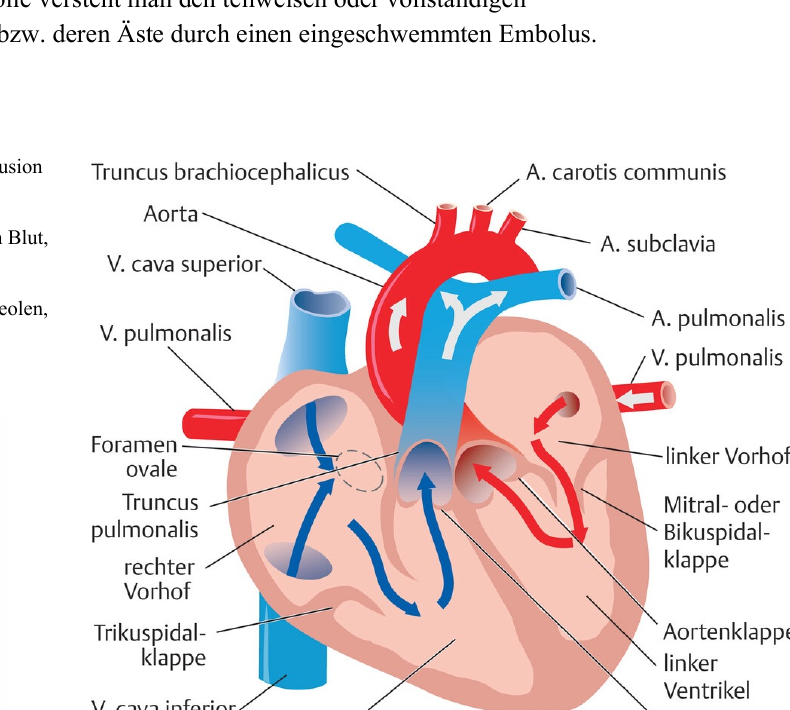
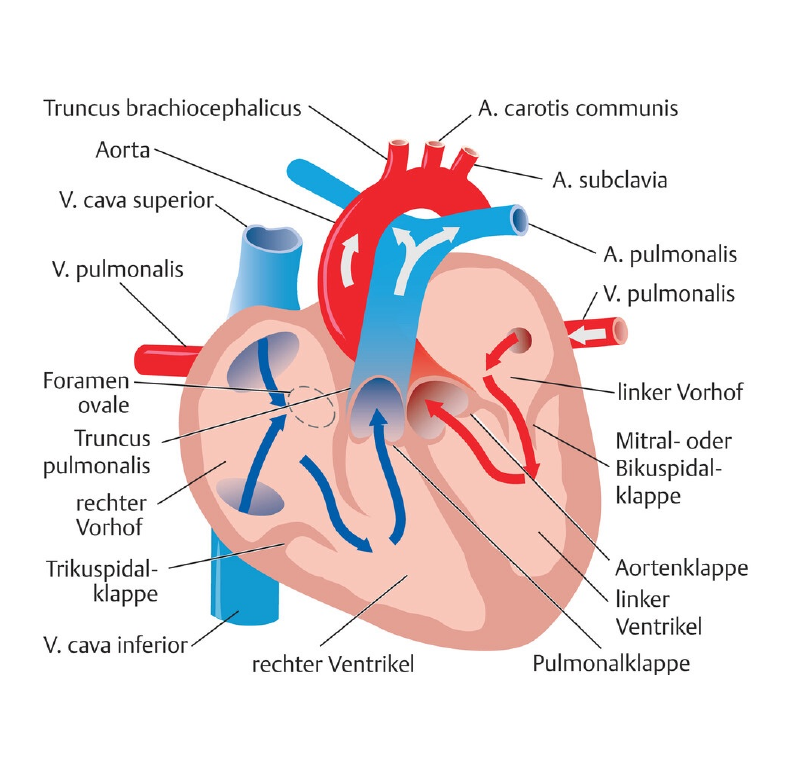
Improve lesson image viewing

diff --git a/app/globals.css b/app/globals.css
@@ -155,20 +155,26 @@ footer { margin-top:auto; display:flex; justify-content:space-between; gap:30px;
 .stroke-types h3 { font-size:15px; }
 .stroke-types p,.reading-columns p,.pathway p,.knowledge-note p { margin:0; color:#65757b; font-size:12px; line-height:1.7; }
 .source-figure { margin:34px 0; overflow:hidden; border:1px solid #edf0ef; border-radius:16px; background:#fbfbf9; }
-.source-figure img { display:block; width:100%; max-height:400px; object-fit:contain; padding:18px; background:#fff; }
+.source-figure img { display:block; width:100%; height:auto; object-fit:contain; background:#fff; }
 .source-figure figcaption { display:flex; justify-content:space-between; gap:15px; padding:12px 15px; color:#52656d; border-top:1px solid #edf0ef; font-size:10px; font-weight:750; }
 .source-figure figcaption span { color:#99a4a8; font-size:8px; font-weight:650; letter-spacing:.08em; text-transform:uppercase; }
-.source-figure.wide img { max-height:510px; }
 .collapsible-figure { margin:30px 0; overflow:hidden; border:1px solid #e3e8e7; border-radius:16px; background:#fff; }
 .collapsible-figure > summary { display:flex; align-items:center; justify-content:space-between; gap:20px; padding:14px 17px; color:#26434e; background:#f5f7f6; cursor:pointer; list-style:none; font-size:11px; font-weight:850; }
 .collapsible-figure > summary::-webkit-details-marker { display:none; }.collapsible-figure > summary::after { content:"−"; display:grid; place-items:center; width:26px; height:26px; border-radius:50%; background:#e7eceb; color:#52676f; font-size:16px; }.collapsible-figure:not([open]) > summary::after { content:"+"; }
 .collapsible-figure > summary span { flex:1; }.collapsible-figure > summary small { color:#89969b; font-size:8px; font-weight:750; letter-spacing:.08em; text-transform:uppercase; }
-.collapsible-figure .source-figure,.collapsible-figure .vfa-page { margin:0; border:0; border-top:1px solid #e5e9e8; border-radius:0; }.collapsible-figure.wide .source-figure img { max-height:560px; }
+.collapsible-figure .source-figure,.collapsible-figure .vfa-page { margin:0; border:0; border-top:1px solid #e5e9e8; border-radius:0; }
 .reading-columns { display:grid; grid-template-columns:1fr 1fr; gap:26px 34px; margin:35px 0; }
 .reading-columns > div { padding-top:14px; border-top:2px solid #dfe7e8; }
 .figure-grid { display:grid; grid-template-columns:1fr 1fr; gap:14px; }
 .figure-grid .source-figure { margin:12px 0; }
-.figure-grid .source-figure img { height:280px; }
+.figure-grid .source-figure img { height:auto; }
+.image-open-button { position:relative; display:block; width:100%; padding:18px; overflow:hidden; border:0; background:#fff; cursor:zoom-in; }
+.image-open-button > span { position:absolute; right:30px; bottom:30px; padding:8px 11px; border-radius:99px; background:#102f3ce8; color:#fff; box-shadow:0 7px 20px #102f3c35; font-size:9px; font-weight:850; letter-spacing:.04em; }
+.image-open-button:focus-visible { outline:3px solid #df704c; outline-offset:-3px; }
+.image-lightbox { position:fixed; inset:0; z-index:1000; display:grid; place-items:center; padding:58px 24px 24px; background:#08171edb; backdrop-filter:blur(12px); cursor:zoom-out; }
+.image-lightbox-stage { display:grid; place-items:center; max-width:100%; max-height:100%; overflow:auto; border-radius:12px; background:#fff; box-shadow:0 24px 80px #0009; cursor:default; }
+.image-lightbox-stage img { display:block; width:auto; height:auto; max-width:calc(100vw - 48px); max-height:calc(100vh - 88px); object-fit:contain; }
+.image-lightbox-close { position:fixed; top:16px; right:18px; z-index:1; padding:9px 13px; border:1px solid #ffffff50; border-radius:99px; background:#fff; color:#173845; box-shadow:0 8px 24px #0004; cursor:pointer; font-size:10px; font-weight:850; }
 .pathway { position:relative; margin:0 0 16px; padding:23px 23px 23px 115px; border-radius:14px; background:#f3f7f8; }
 .pathway > span { position:absolute; top:23px; left:20px; padding:7px 9px; border-radius:7px; background:#dcebf0; color:#23617a; font-size:9px; font-weight:850; letter-spacing:.08em; text-transform:uppercase; }
 .pathway.bleeding { background:#fff4ef; }.pathway.bleeding > span { background:#ffe0d3; color:#a44c2f; }
@@ -350,7 +356,7 @@ footer { margin-top:auto; display:flex; justify-content:space-between; gap:30px;
   .lesson-article { padding:0 35px 42px; }.lesson-prose { padding-left:0; }.lesson-intro { padding-top:42px; }.chapter-heading { margin-bottom:22px; }.lesson-section { padding-top:48px; }.lesson-article .ai-question-panel { margin:0; }.reader-hero-ready::after { display:none; }
 }
 @media (max-width:530px) { .login-brand { min-height:39vh; }.login-copy h1 { font-size:39px; }.login-copy > p { margin-bottom:0; }.login-card h2 { font-size:29px; }.topic-grid { grid-template-columns:1fr; }.section-heading h1 { font-size:34px; }.topic-card { min-height:270px; }.welcome h1 { font-size:36px; }.welcome { min-height:370px; }.hero-actions { max-width:none; margin-right:60px; }.topic-modal { padding:28px 22px; }.modal-backdrop { padding:12px; }.quiz-header h1 { font-size:29px; }.answer-list button { min-height:66px; }.result-card h1 { font-size:31px; }.progress-overview { padding:30px 22px; }.checklist { padding:20px 16px; }.source-badge { display:none; }.topic-search small { display:none; }.reader-hero { padding:30px 22px; display:block; }.reader-status { display:inline-block; margin-top:22px; }.reader-sections > section { padding:17px; }.mastery-grid { grid-template-columns:1fr; }.chapter-progress-card { padding:22px 18px; }.chapter-progress-main { grid-template-columns:1fr; }.chapter-score { text-align:left; }.chapter-result-grid { grid-template-columns:1fr; }.chapter-result-grid > button { grid-column:auto; }.topic-name-grid button { min-height:82px; }.topic-name-grid button small { line-height:1.4; }
-  .topic-reader { width:calc(100% - 22px); }.lesson-article { padding:0 19px 34px; }.lesson-intro .lead { font-size:22px; }.chapter-heading { grid-template-columns:36px 1fr; gap:12px; }.chapter-heading > span { width:36px; height:36px; }.chapter-heading h2 { font-size:26px; }.stroke-types,.reading-columns,.figure-grid,.symptom-grid,.differential-grid,.samplers-grid,.ecg-pattern,.resus-readiness { grid-template-columns:1fr; }.stroke-types article { min-height:0; }.source-figure img { padding:9px; }.figure-grid .source-figure img { height:auto; max-height:330px; }.source-figure figcaption { display:block; }.source-figure figcaption span { display:block; margin-top:4px; }.pathway { padding:65px 18px 20px; }.pathway > span { top:18px; left:18px; }.red-flags,.diagnostic-boundary { grid-template-columns:1fr; padding:22px; }.diagnostic-boundary > span { min-height:42px; }.editorial-list li { grid-template-columns:1fr; gap:5px; }.lesson-article .ai-question-panel { padding:22px; }.vfa-page { margin-left:0; margin-right:0; }.reading-flow { padding:22px 17px 35px; }.lysis-explainer { grid-template-columns:1fr; }.collapsible-figure > summary small { display:none; }.review-action-grid,.training-track-tabs { grid-template-columns:1fr; }.written-training-empty,.progress-empty { grid-template-columns:1fr; }
+  .topic-reader { width:calc(100% - 22px); }.lesson-article { padding:0 19px 34px; }.lesson-intro .lead { font-size:22px; }.chapter-heading { grid-template-columns:36px 1fr; gap:12px; }.chapter-heading > span { width:36px; height:36px; }.chapter-heading h2 { font-size:26px; }.stroke-types,.reading-columns,.figure-grid,.symptom-grid,.differential-grid,.samplers-grid,.ecg-pattern,.resus-readiness { grid-template-columns:1fr; }.stroke-types article { min-height:0; }.figure-grid .source-figure img { height:auto; }.source-figure figcaption { display:block; }.source-figure figcaption span { display:block; margin-top:4px; }.image-open-button { padding:8px; }.image-open-button > span { right:17px; bottom:17px; }.image-lightbox { padding:54px 10px 10px; }.image-lightbox-stage img { max-width:calc(100vw - 20px); max-height:calc(100vh - 68px); }.pathway { padding:65px 18px 20px; }.pathway > span { top:18px; left:18px; }.red-flags,.diagnostic-boundary { grid-template-columns:1fr; padding:22px; }.diagnostic-boundary > span { min-height:42px; }.editorial-list li { grid-template-columns:1fr; gap:5px; }.lesson-article .ai-question-panel { padding:22px; }.vfa-page { margin-left:0; margin-right:0; }.reading-flow { padding:22px 17px 35px; }.lysis-explainer { grid-template-columns:1fr; }.collapsible-figure > summary small { display:none; }.review-action-grid,.training-track-tabs { grid-template-columns:1fr; }.written-training-empty,.progress-empty { grid-template-columns:1fr; }
   .chapter-quiz { margin:0; padding:23px 19px; }.single-choice-actions button { grid-template-columns:34px 1fr; padding:10px 12px; }.single-choice-actions button > span { width:32px; height:32px; }.chapter-quiz-head > div:first-child { align-items:flex-start; flex-direction:column; gap:5px; }
   .mc-training-page .ai-question-panel.standalone { min-height:0; padding:25px 21px; }.mc-training-page .chapter-quiz.standalone { min-height:0; }
   .flashcard-deck { margin-left:0; }.flashcard-grid { grid-template-columns:1fr; }.flashcard-deck > div:first-child { align-items:flex-start; flex-direction:column; }.vein-pair { grid-template-columns:1fr; }.vein-pair > i { transform:rotate(90deg); justify-self:center; }.chapter-completion { align-items:stretch; flex-direction:column; }.chapter-completion > button { width:100%; }

diff --git a/app/page.tsx b/app/page.tsx
@@ -175,12 +175,36 @@ function ChapterHeading({ number, title, kicker }: { number: string; title: stri
   return <header className="chapter-heading"><span>{number}</span><div><small>{kicker}</small><h2>{title}</h2></div></header>;
 }
 
+function ExpandableImage({ src, alt }: { src: string; alt: string }) {
+  const [fullscreen, setFullscreen] = useState(false);
+
+  useEffect(() => {
+    if (!fullscreen) return;
+    const closeOnEscape = (event: KeyboardEvent) => { if (event.key === "Escape") setFullscreen(false); };
+    window.addEventListener("keydown", closeOnEscape);
+    return () => window.removeEventListener("keydown", closeOnEscape);
+  }, [fullscreen]);
+
+  return <>
+    <button className="image-open-button" type="button" onClick={() => setFullscreen(true)} aria-label={`${alt} im Vollbild öffnen`}>
+      <img src={src} alt={alt} />
+      <span>⤢ Vollbild</span>
+    </button>
+    {fullscreen && <div className="image-lightbox" role="dialog" aria-modal="true" aria-label={`Vollbild: ${alt}`} onClick={() => setFullscreen(false)}>
+      <button className="image-lightbox-close" type="button" onClick={() => setFullscreen(false)}>× Schließen</button>
+      <div className="image-lightbox-stage" onClick={(event) => event.stopPropagation()}>
+        <img src={src} alt={alt} />
+      </div>
+    </div>}
+  </>;
+}
+
 function SourceFigure({ src, alt, caption, wide = false }: { src: string; alt: string; caption: string; wide?: boolean }) {
-  return <details className={`collapsible-figure ${wide ? "wide" : ""}`} open><summary><span>{caption}</span><small>Abbildung ein-/ausklappen</small></summary><figure className="source-figure"><img src={src} alt={alt} /><figcaption>{caption}<span>Abbildung aus deiner Vorlage</span></figcaption></figure></details>;
+  return <details className={`collapsible-figure ${wide ? "wide" : ""}`} open><summary><span>{caption}</span><small>Abbildung ein-/ausklappen</small></summary><figure className="source-figure"><ExpandableImage src={src} alt={alt} /><figcaption>{caption}<span>Abbildung aus deiner Vorlage · antippen für Vollbild</span></figcaption></figure></details>;
 }
 
 function VfaFigure({ src, alt, caption }: { src: string; alt: string; caption: string }) {
-  return <details className="collapsible-figure vfa-collapsible" open><summary><span>{caption}</span><small>VFA ein-/ausklappen</small></summary><figure className="vfa-page"><img src={src} alt={alt} /><figcaption>{caption}</figcaption></figure></details>;
+  return <details className="collapsible-figure vfa-collapsible" open><summary><span>{caption}</span><small>VFA ein-/ausklappen</small></summary><figure className="vfa-page"><ExpandableImage src={src} alt={alt} /><figcaption>{caption} · antippen für Vollbild</figcaption></figure></details>;
 }
 
 function ApoplexLesson({ onProgressChange, completed, onToggleComplete }: { onProgressChange: (progress: QuestionProgress) => void; completed: boolean; onToggleComplete: () => void }) {
